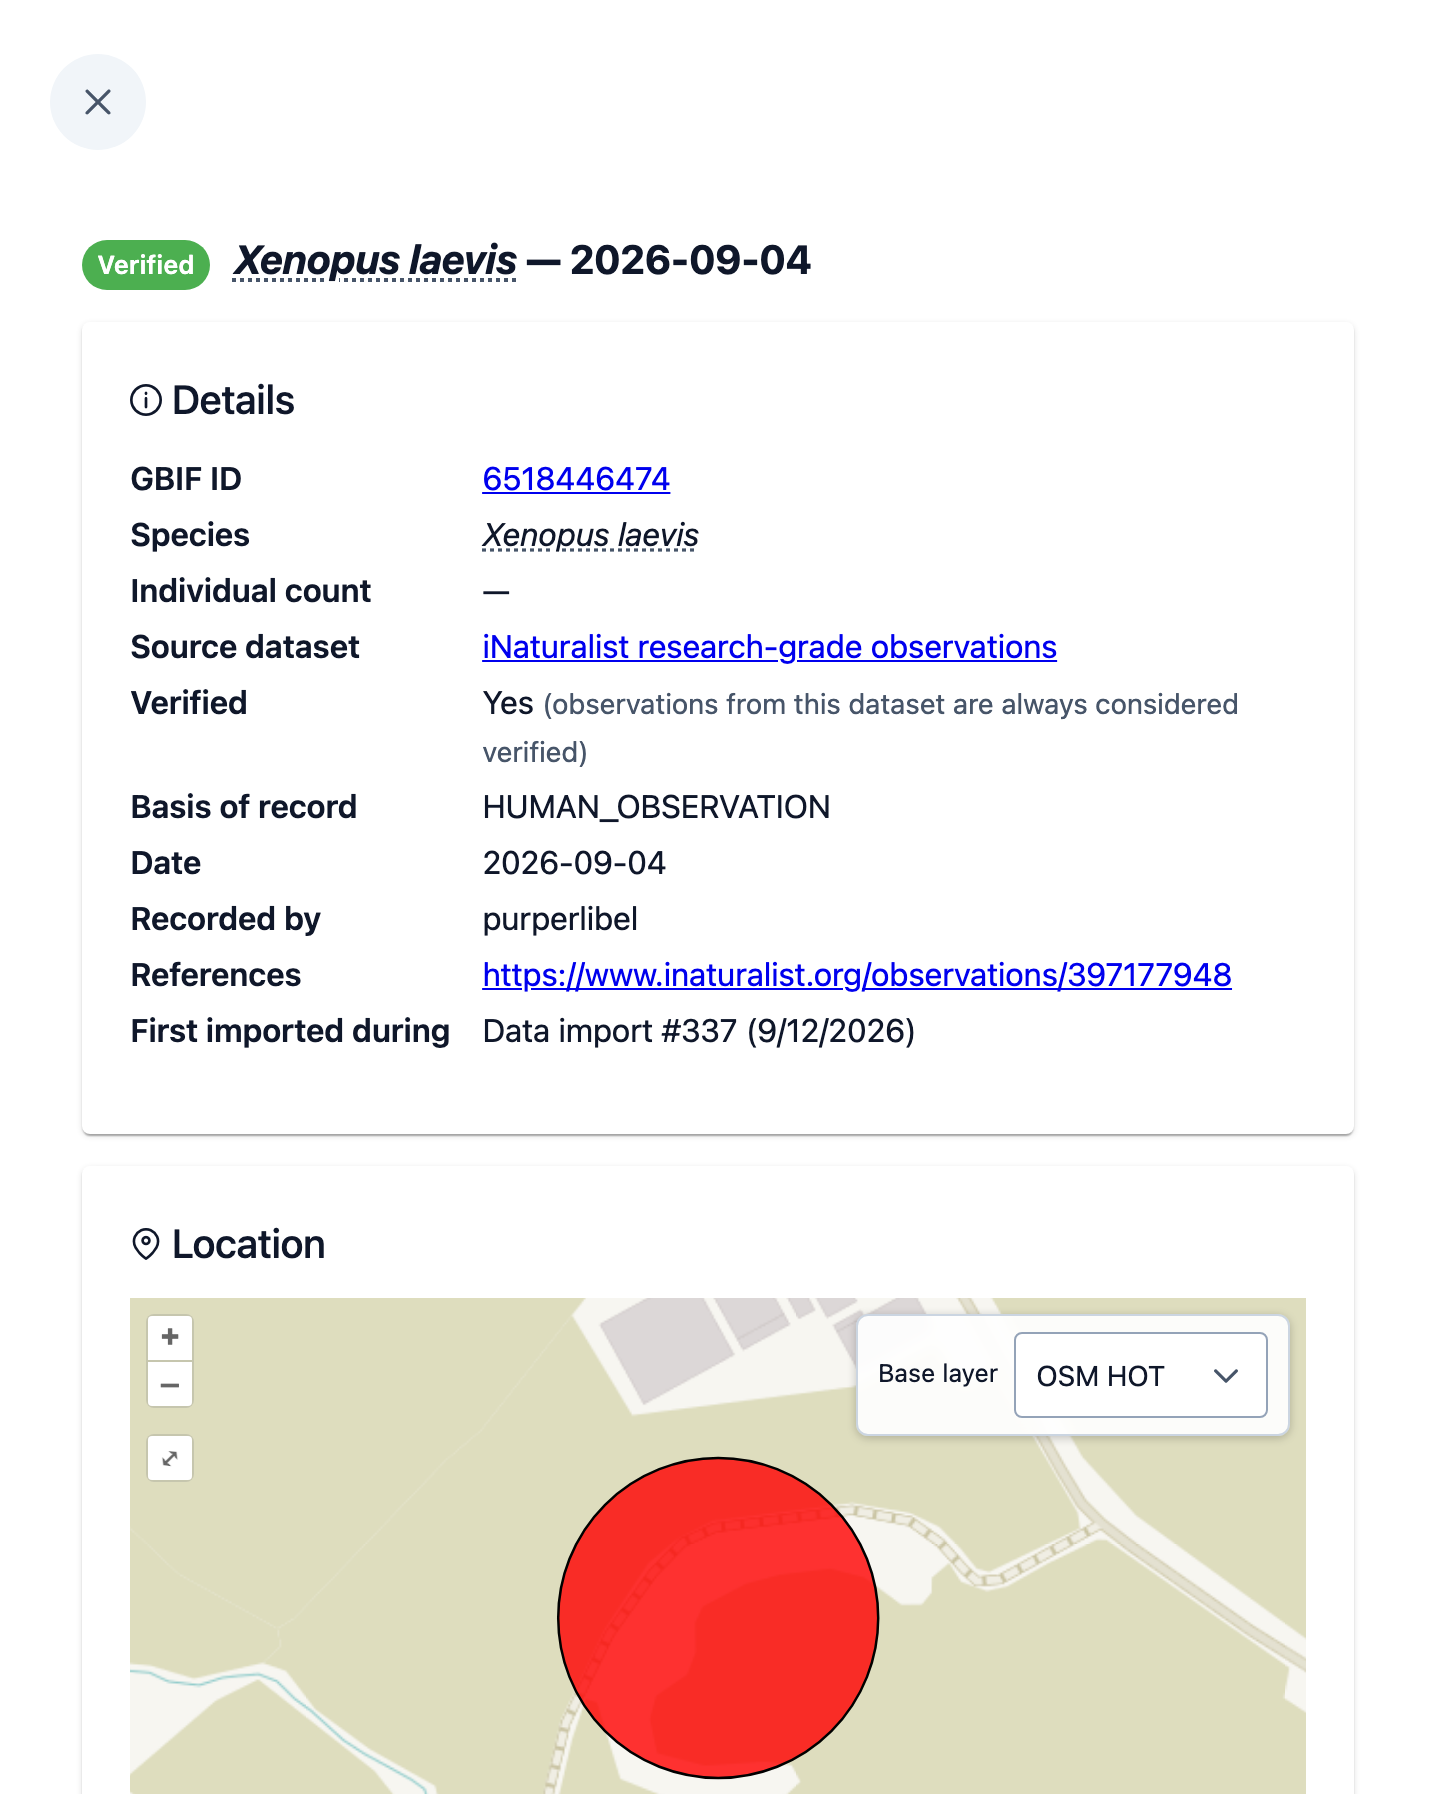
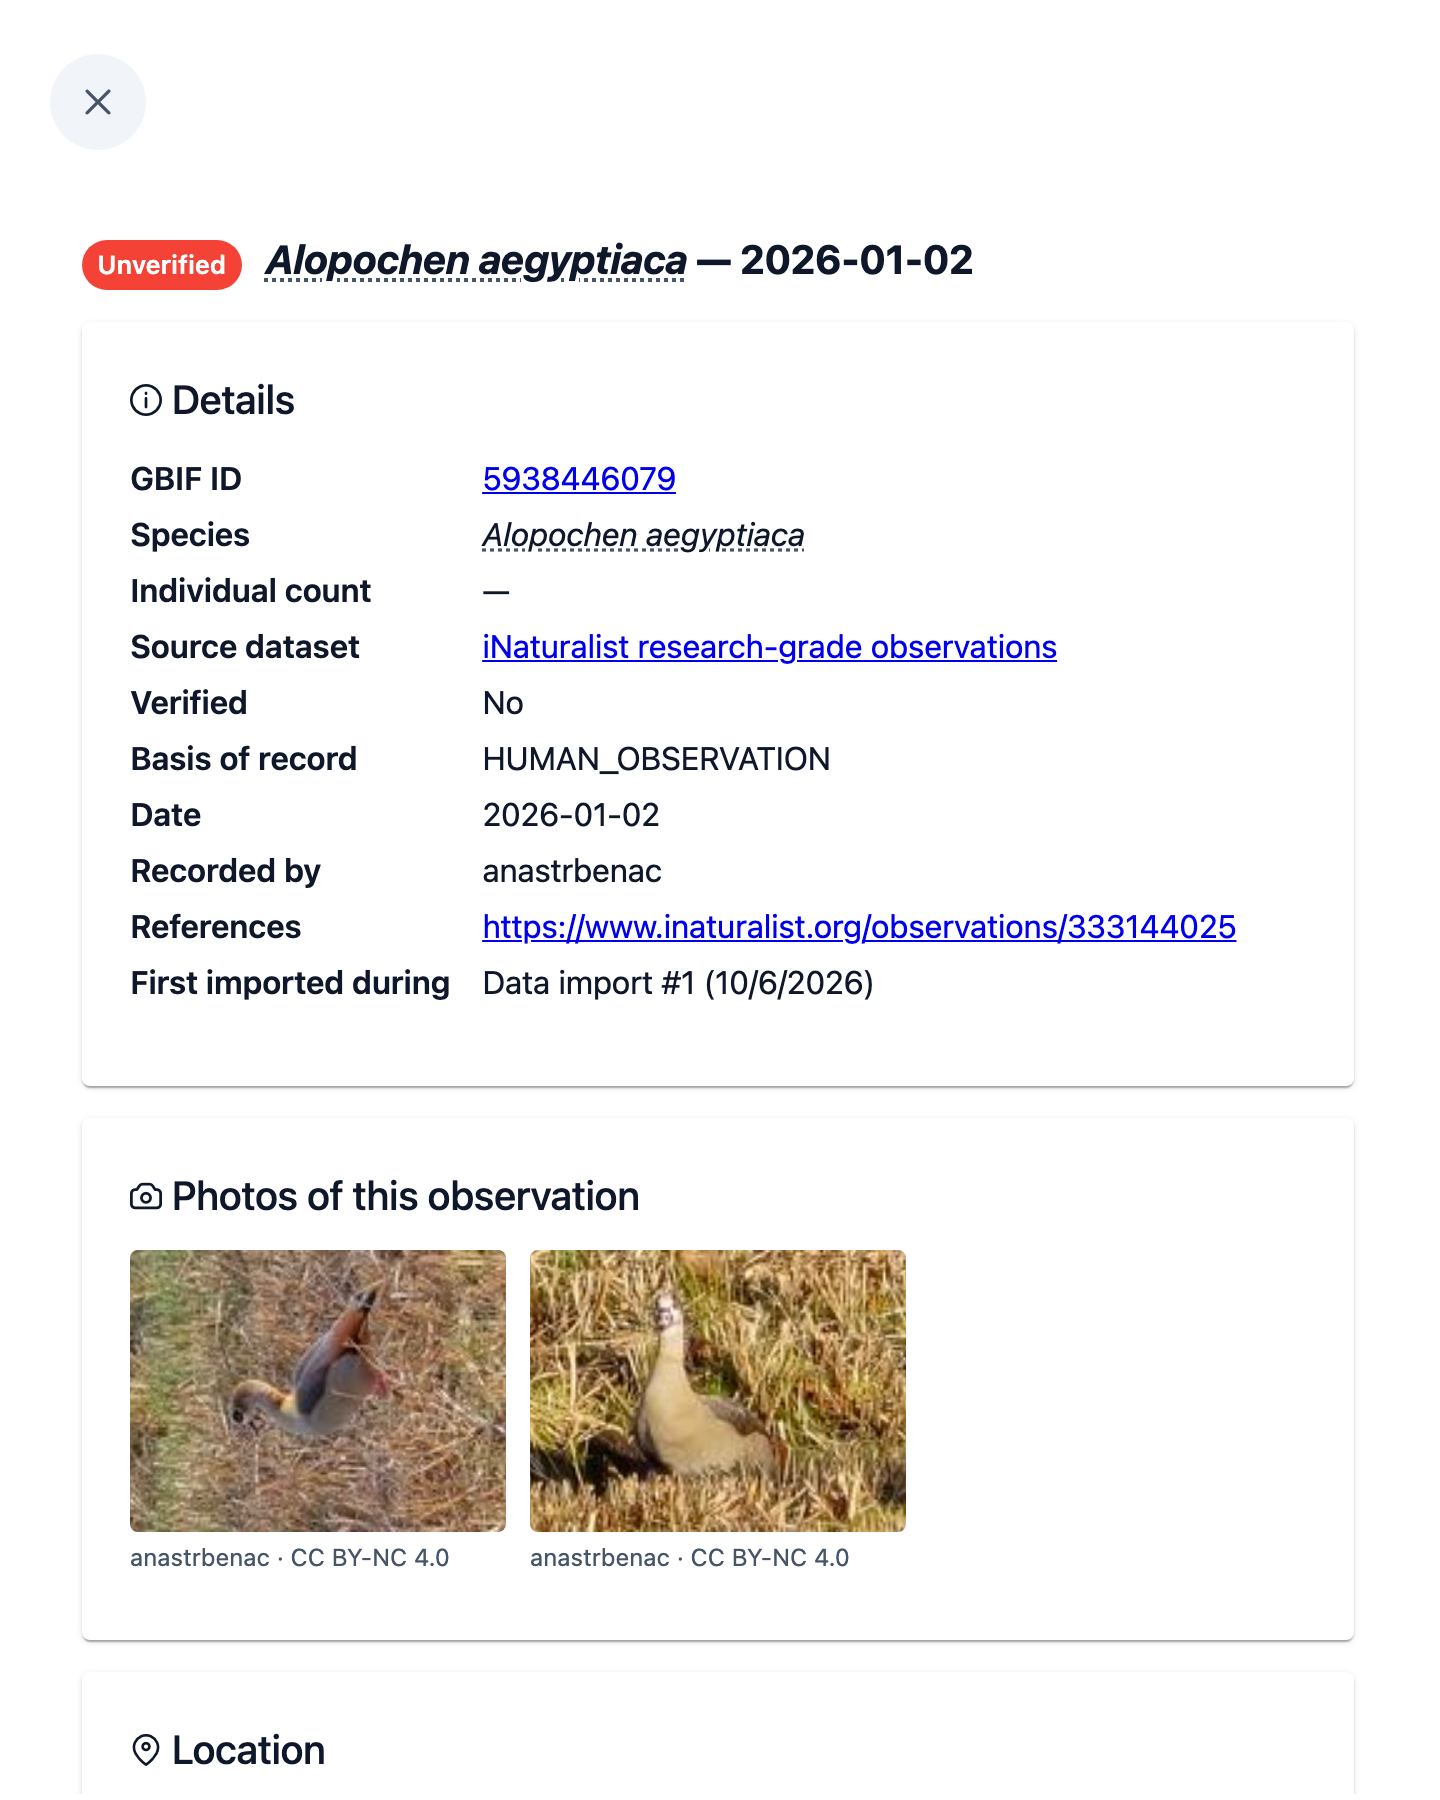
Document observation photos
Changelog entry, a paragraph in the user guide's "Looking at one
observation", and a decision log entry. The observation screenshot was
taken with documentation/screenshots.py against a local instance holding a
real GBIF download, as the demo instance does not have the feature yet.

diff --git a/docs/decisions.md b/docs/decisions.md
@@ -451,3 +451,8 @@ expresses the ownership.
 **What:** `GBIF_DOWNLOAD_GEOMETRY` (WKT) adds a `within` clause to the default predicate; a system check rejects malformed, invalid or clockwise polygons.
 **Why:** An instance scoped to an arbitrary area (land plus EEZ) needed a custom `PREDICATE_BUILDER`, which on Dokploy means a per-instance mount in the shared compose file.
 **Rejected:** A file path or URL variable (same mount, or a network dependency) and validating in `settings.py` (would load GEOS before `local_settings.py` can set its library path).
+
+## 2026-10-01 - Show observation photos from the download's Multimedia extension
+**What:** The import stores each observation's StillImage rows from `multimedia.txt` in `ObservationImage` (FK, rebuilt every import); the UI shows them via GBIF's image cache (200px thumbnails keyed on md5 of the identifier).
+**Why:** Users took the generic species image in the tooltip for a photo of the observation (#430); the photos were already in every download.
+**Rejected:** Fetching media from the GBIF occurrence API at view time (one call per row for the list indicator) and a JSONField on Observation (multimedia.txt is not row-aligned with the core, so it would need the whole file in memory).

diff --git a/documentation/docs/user-guide/explore.md b/documentation/docs/user-guide/explore.md
@@ -172,6 +172,12 @@ details.
   The site downloads new data from GBIF regularly, and each download is a data
   import.
 
+When the observation was published with photos, **Photos of this observation**
+shows them, each credited and linking to where it was published (the first 12;
+GBIF has the rest). In the results table, a camera icon marks these
+observations: hover it to see the photo. Hovering a species name, by contrast,
+always shows a generic image of the species, not of this observation.
+
 The map under **Location** shows where the observation was made. The circle is
 how precise that location is:
 

diff --git a/CHANGELOG.md b/CHANGELOG.md
@@ -1,3 +1,12 @@
+# Unreleased
+
+- New: observation photos published to GBIF are shown in the observation
+  details. In the results table, a camera column marks observations that have
+  some; hover it to see the photo. The image shown when hovering a species name
+  is now labelled as a generic image of the species (#430).
+- API: `/api/v2/observations/{stableId}/` returns the observation's `images`,
+  and each `/api/v2/observations/` item its `firstImage` (or null).
+
 # 2.10.0 (2026-09-30)
 
 - New: `GBIF_DOWNLOAD_GEOMETRY` scopes the GBIF download to a polygon (WKT),
